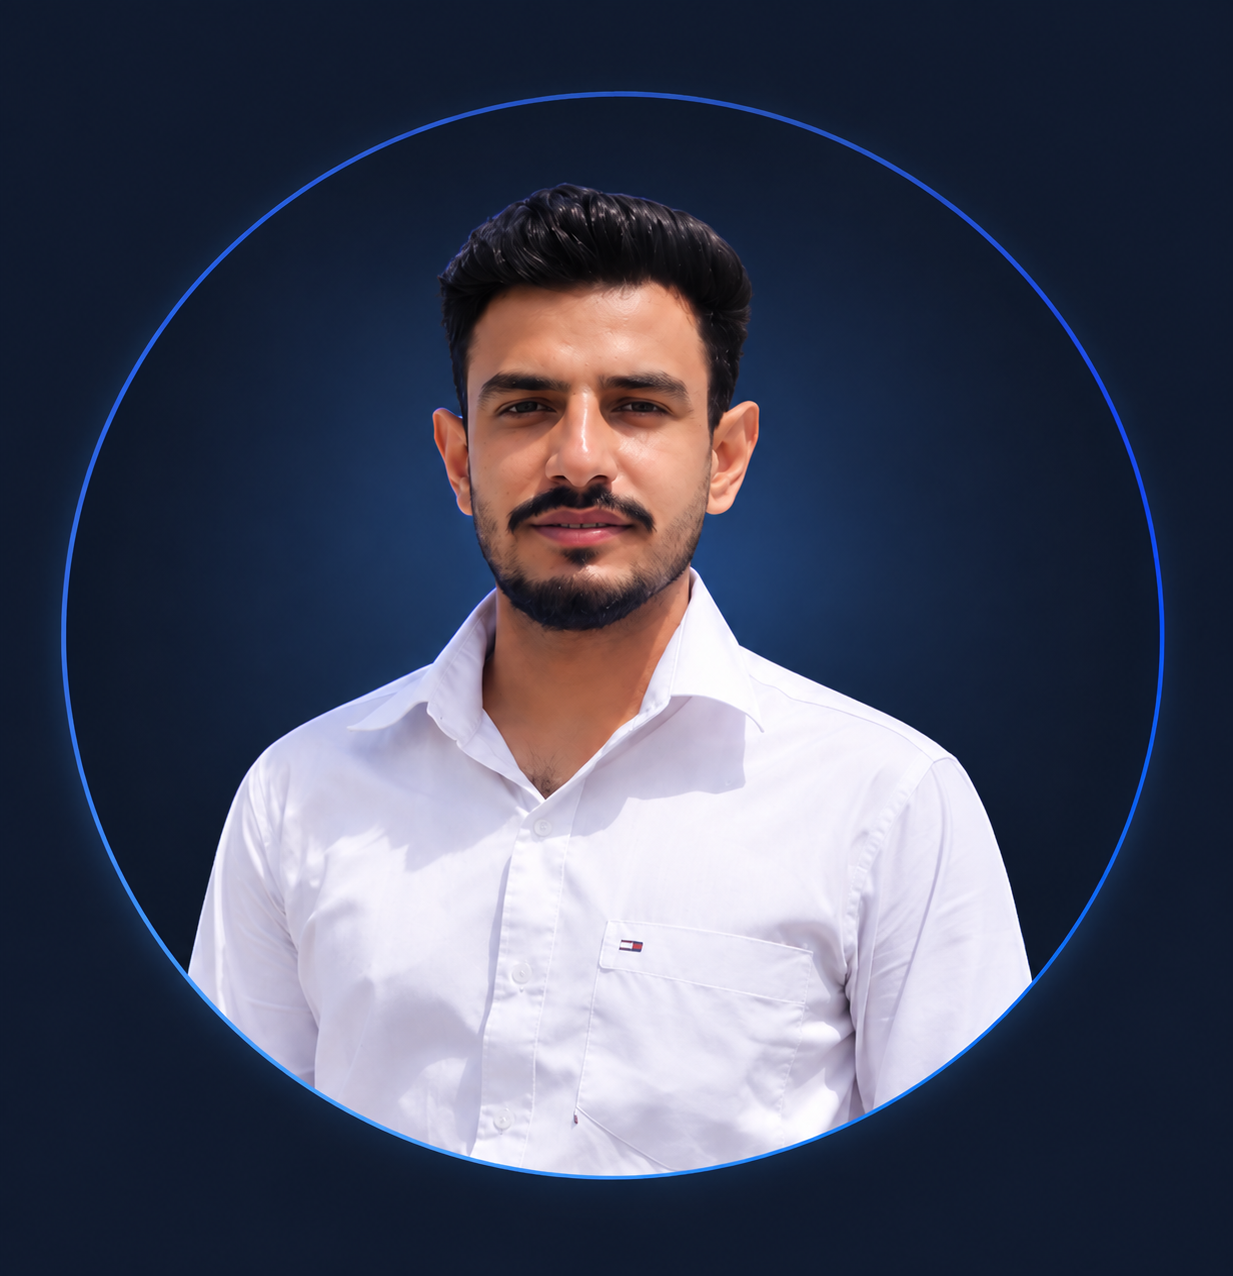
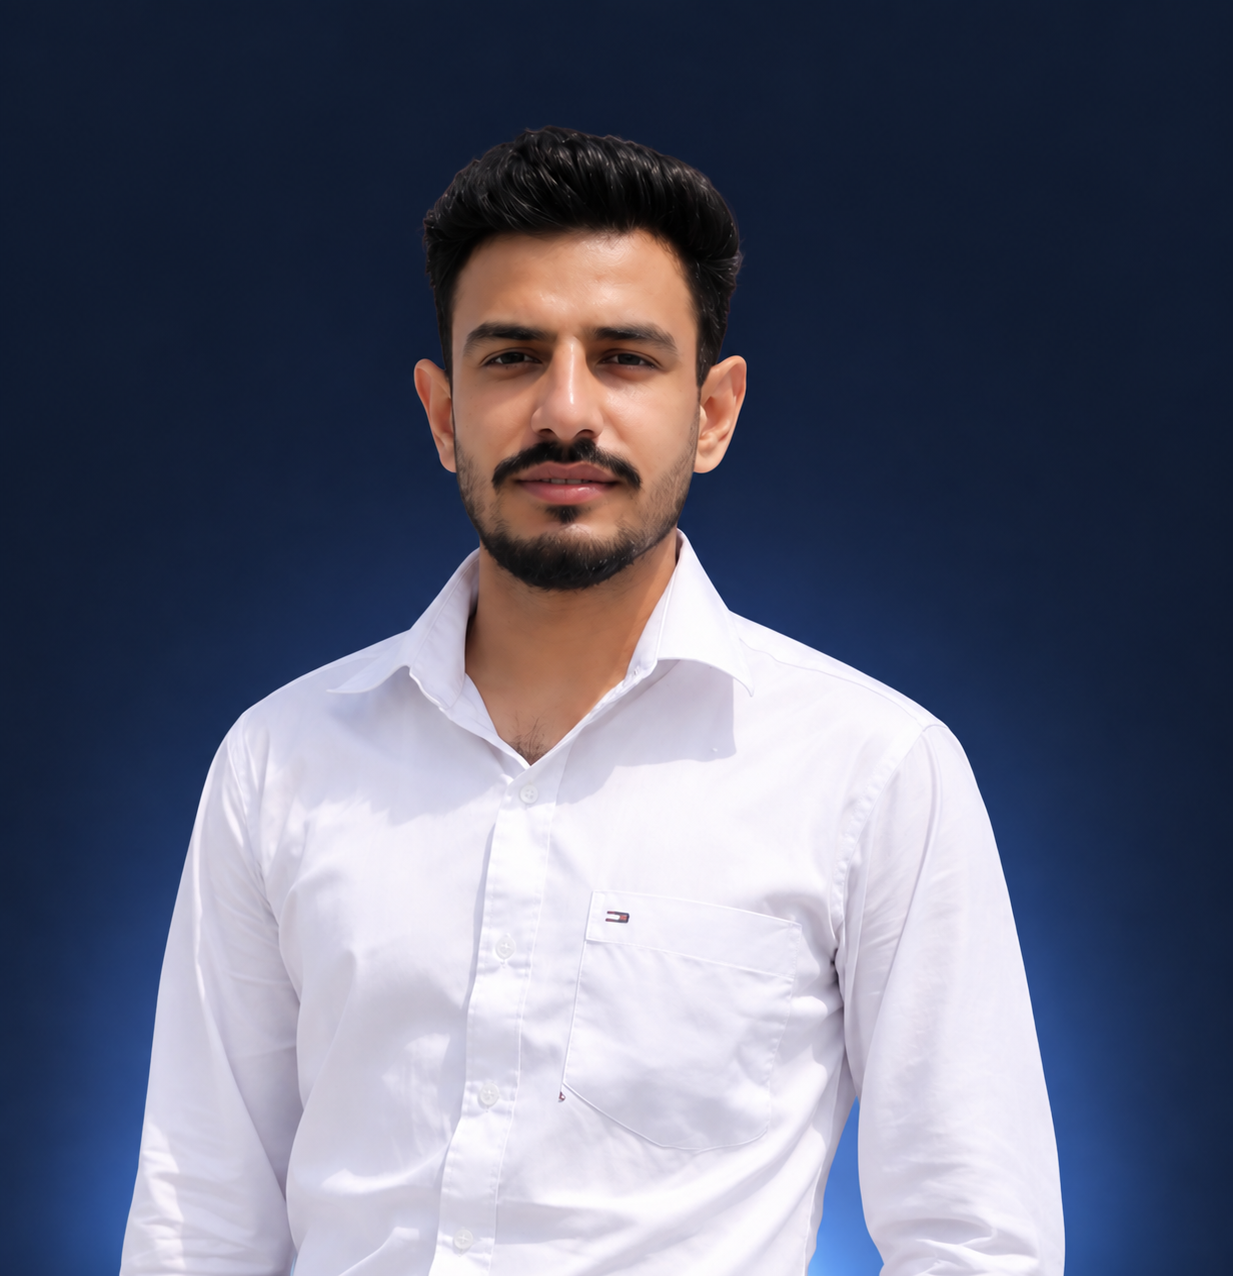
Update UI

diff --git a/src/Components/Home.css b/src/Components/Home.css
@@ -1,15 +1,15 @@
 .home {
-  min-height: 80vh;
+  min-height: 90vh;
   display: flex;
-  justify-content: center;
   align-items: center;
-  text-align: center;
-  padding: 80px 20px;
+  justify-content: center;
+  gap: 6rem;
+  padding: 60px 20px;
 }
 
 .home-content {
-  max-width: 800px;
-  margin-left: 2rem;
+  max-width: 650px;
+  text-align: center;
 }
 
 .home-intro {
@@ -32,7 +32,6 @@
 
 .home-description {
   max-width: 600px;
-  margin: auto;
   color: #94a3b8;
   line-height: 1.7;
 }
@@ -42,10 +41,10 @@
   display: flex;
   flex-wrap: wrap;
   justify-content: center;
-  text-align: center;
-  gap: 1rem;
+  gap: 1.5rem;
 }
-.resume{
+
+.resume {
   padding: 12px 22px;
   border: 1px solid #334155;
   border-radius: 6px;
@@ -55,44 +54,32 @@
 
 .resume:hover {
   color: #0ea5e9;
-  border: 1px solid #0ea5e9;
+  border-color: #0ea5e9;
 }
 
-.viewprojects{
+.viewprojects {
   padding: 12px 22px;
   border: 1px solid #94a3b8;
   background-color: #334155;
   border-radius: 6px;
   cursor: pointer;
 }
+
 .viewprojects:hover {
   color: #38bdf8;
   background-color: #1e293b;
   border-color: #38bdf8;
 }
 
-.home {
-  min-height: 90vh;
-  display: flex;
-  align-items: center;
-  gap: 6rem;
-  padding: 60px;
-}
-
-.home-content {
-  max-width: 600px;
-}
-
 .home-image img {
   width: 350px;
   height: 350px;
   object-fit: cover;
-  animation: floating 4s ease-in-out infinite;
   border-radius: 50%;
+  animation: floating 4s ease-in-out infinite;
 }
 
 @keyframes floating {
-
   0% {
     transform: translateY(0);
   }
@@ -104,6 +91,19 @@
   100% {
     transform: translateY(0);
   }
-
 }
 
+@media (max-width: 768px) {
+    .home{
+      min-height: 90vh;
+      display: flex;
+      flex-wrap: wrap;
+    }
+
+    .home-image img{
+      width: 270px;
+      height: 270px;
+      object-fit: cover;
+    }
+
+ }

diff --git a/src/Components/Home.jsx b/src/Components/Home.jsx
@@ -5,31 +5,45 @@ import profileImg from "../assets/profile.png";
 function Home() {
   return (
     <section className="home" id="home">
+
       <div className="home-content">
+
         <p className="home-intro">Hello, I'm</p>
 
         <h1>Abhishek Rana</h1>
 
-        <h2>Java & Spring Boot Developer</h2>
+        <h2>Java Full Stack Developer</h2>
 
         <p className="home-description">
-          I build backend applications and REST APIs using Java,
-          Spring Boot and MySQL.
+          I build responsive web applications using React.js,
+          Java, Spring Boot, REST APIs and MySQL.
         </p>
 
         <div className="home-buttons">
-          <a href={resume} download="My_Cv.pdf" className="resume">
+
+          <a
+            href={resume}
+            download="My_Cv.pdf"
+            className="resume"
+          >
             Download Resume
           </a>
-          <br />
-          <a href="#projects" className="viewprojects">
+
+          <a
+            href="#projects"
+            className="viewprojects"
+          >
             View Projects
           </a>
+
         </div>
+
       </div>
+
       <div className="home-image">
         <img src={profileImg} alt="Abhishek Rana" />
       </div>
+
     </section>
   );
 }

diff --git a/src/Components/Projects.jsx b/src/Components/Projects.jsx
@@ -1,4 +1,7 @@
 import "./Projects.css";
+import Stonegame from "../assets/Pss_logo.svg";
+import currency from "../assets/foreign-exchange.png";
+import Ticgame from "../assets/tic-tac-toe.png";
 
 function Projects() {
   return (
@@ -8,7 +11,7 @@ function Projects() {
 
       <div className="project-card">
         <h3>Stone Paper Scissors</h3>
-
+        <img src={Stonegame} alt="image" />
         <p>
           A simple interactive game developed using HTML, CSS and JavaScript.
         </p>
@@ -20,7 +23,7 @@ function Projects() {
 
       <div className="project-card">
         <h3>Currency Converter</h3>
-
+        <img src={currency} alt="image" />
         <p>
           A web application that converts currencies using JavaScript.
         </p>
@@ -32,7 +35,7 @@ function Projects() {
 
       <div className="project-card">
         <h3>Tic Tac Toe</h3>
-
+        <img src={Ticgame} alt="image" />
         <p>
           A simple browser-based Tic Tac Toe game with interactive gameplay.
         </p>

diff --git a/src/Components/About.jsx b/src/Components/About.jsx
@@ -9,14 +9,15 @@ function About() {
         <h2>About Me</h2>
 
         <p>
-          I am a B.Sc. IT graduate passionate about Java and backend
-          development. I enjoy building applications and REST APIs using
-          Java, Spring Boot and MySQL.
+          I am a B.Sc. IT graduate and Java Full Stack Developer passionate 
+          about building responsive and user-friendly web applications using 
+          React.js, Java, Spring Boot, REST APIs, and MySQL.
         </p>
 
         <p>
-          I am continuously improving my programming, problem-solving and
-          development skills while learning modern technologies.
+          I enjoy solving problems, developing real-world projects, 
+          and continuously improving my technical skills by learning 
+          modern technologies.
         </p>
       </div>
     </section>

diff --git a/src/Components/Projects.css b/src/Components/Projects.css
@@ -24,6 +24,10 @@ h2 {
   margin-bottom: 15px;
   color: #f8fafc;
 }
+.project-card img{
+  height: 120px;
+  animation: floating 4s ease-in-out infinite;
+}
 
 .project-card p {
   margin-bottom: 12px;
@@ -42,4 +46,18 @@ h2 {
   color: #38bdf8;
   background-color: #1e293b;
   border-color: #38bdf8;
+}
+
+@keyframes floating {
+  0% {
+    transform: translateY(0);
+  }
+
+  50% {
+    transform: translateY(-10px);
+  }
+
+  100% {
+    transform: translateY(0);
+  }
 }

diff --git a/src/Components/Contact.jsx b/src/Components/Contact.jsx
@@ -21,7 +21,6 @@ function Contact() {
           <a
             href="https://github.com/abhishekrana001"
             target="_blank"
-            rel="noopener noreferrer"
           >
             GitHub
           </a>
@@ -29,7 +28,6 @@ function Contact() {
           <a
             href="https://linkedin.com/in/abhishek-rana-28872a294"
             target="_blank"
-            rel="noopener noreferrer"
           >
             LinkedIn
           </a>
